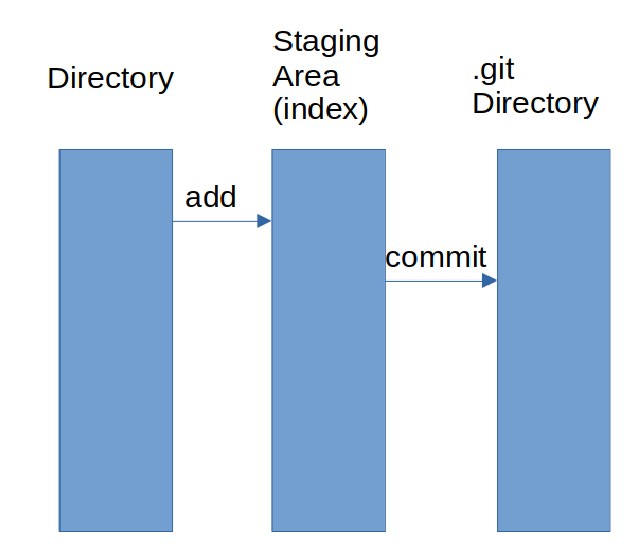
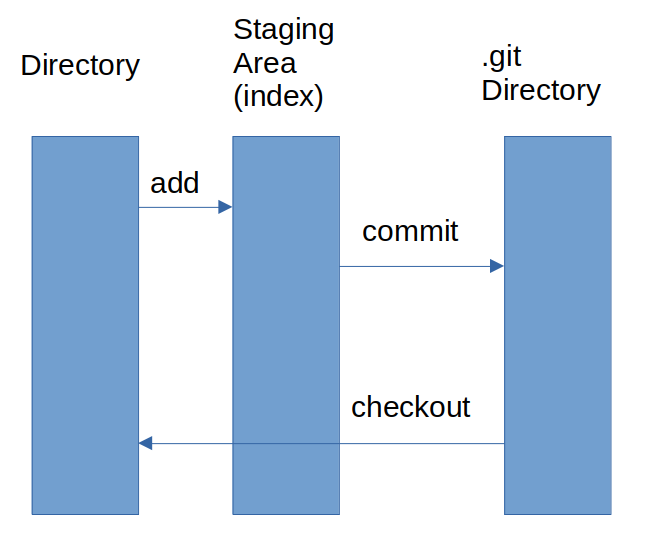
update

Changed region(s): [[0.0312, 0.0299, 0.9657, 0.9851], [0.0312, 0.0896, 0.2804, 0.1791], [0.7165, 0.0896, 0.9346, 0.209]]

diff --git a/README.md b/README.md
@@ -1,14 +1,23 @@
 # GIT
 
 ## Basics
+A version of a file can be in one of three places as show in the figure : working directory, staging area, or git directory
+![img1](three-stages.png)
+The figure shows the typical commands that are used to move a version of a file between the three stages.
+It should be noted that in the working directory and staging area there could be only one version of a given file. The Git directory, however, can contain multiple versions of the file.
 
+The working directory contains the files that you are working on. The staging area contains contains information on what **will be** in the next commit.
+A typical workflow would be:
+1. Modify files in the working directory
+2. "add" the modified files to the staging area
+3. "commit" the files in the staging area to the local git repository (directory)
+   
 ### Initialization
-Typically there are two ways to start version control on a directory. The first is initializing the directory
-to be under version control.
 
-There are three states: working directory, staging area (or index), and committed. The index contains information on what **will be** in the next commit.
+Typically there are two ways to start version control on a directory. The first is initializing the directory to be under version control.
 
-We start with an example. The file you are reading is currently in the working directory.
+We start with an example. Create a folder called git (on Windows). Open a terminal and cd to that folder.
+
 ```bash
 >git init
 >git status
@@ -16,7 +25,7 @@ On branch master
 No commits yet
 nothing to commit (create/copy files and use "git add" to track)
 ```
-Now create a new file, ```file.txt```
+Now create a new file, ```file1.txt```
 ```bash
 >echo "first version of file1" > file1.txt
 >git log
@@ -30,8 +39,7 @@ Untracked files:
 
 nothing added to commit but untracked files present (use "git add" to track)
 ```
-At this point file1 is newly added to the working directory, so it is untracked. To start tracking it we added
-it to the index using the **add** command.
+At this point file1.txt is newly added to the working directory, so it is untracked. To start tracking it, we add it to the index using the **add** command.
 
 ```bash
 >git add file1.txt
@@ -42,8 +50,7 @@ Changes to be committed:
   (use "git rm --cached <file>..." to unstage)
         new file:   file1.txt
 ```
-So now there are two (identical) copies of file1, in the **working** directory and in the **index**. If we make changes
-to file1.txt they will affect the one in the **working** directory only. Edit "file1.txt", by adding the line "second version of file1.txt".
+So now there are two (identical) copies of file1, in the **working** directory and in the **index**. If we make changes to file1.txt they will affect the one in the **working** directory only. Edit "file1.txt", by adding the line "second version of file1.txt".
 
 ```bash
 >echo "second version of file1.txt">>file1.txt
@@ -61,7 +68,7 @@ Changes not staged for commit:
 ```
 
 At this point the version in the **working** directory and the **index** are different. We can either add the second
-version to the **index** or commit the **index**, or restore the version in the index (that contains one line only) to the working directory.
+version to the **index**, commit the **index**, or restore the version in the index (that contains one line only) to the working directory.
 Let us try the last option.
 ```bash
 >cat file1.txt
@@ -94,8 +101,8 @@ Next we add the line "second version of text1" to file1.txt, add it to the index
 >git add file1.txt
 >echo "third version of file1.txt">> file1.txt
 ```
-So we have **three** versions of file1.txt: 
-- one in the working tree
+At this point we have **three** versions of file1.txt: 
+- one in the working directory
 - one in the index
 - one was committed. 
 
@@ -114,12 +121,14 @@ index 0005eef..73c2f46 100644
 +third version of file1.txt
 ```
 
-The above says that the version in the working tree has an extra line "third version of file1.txt".
-
+The above says that the version in the working tree has an extra line "third version of file1.txt" which doesn't exist in the index.
+In general, a line preceded with '-' means it is in ```a``` but not in ```b``` and '+' it is in ```b``` not in ```a```.
 We can also show the difference between working tree and the last commit.
 
 ```bash
->git diff HEAD #or git diff master
+>git diff HEAD #or git diff master or main 
+               # depending on the name of the branch
+
 diff --git a/file1.txt b/file1.txt
 index 7436323..73c2f46 100644
 --- a/file1.txt
@@ -150,7 +159,7 @@ shows the difference between the **index** and last commit.
 ### Branching
 
 
-Typically, to work on a new feature in a software base we create a new branch from the main one. This way all the changes we make do not affect the supposedly "working code". But after we are done developing the new feature we would like to incorporate back the new changes into the main part. Before we proceed we perform two commits to get three different 
+Typically, to work on a new feature in a software base we create a new branch from the main one. This way all the changes we make do not affect the supposedly "working code". But after we are done developing the new feature we would like to incorporate  the new changes back into the main part. Before we proceed we perform two commits to get three different 
 versions of file1.txt in the database.
 ```bash
 >git commit -m "added second version of file1"
@@ -163,7 +172,7 @@ versions of file1.txt in the database.
 da21bb7 added first version of file1
 6b66b6a initial commit
 ```
-First simple example. 
+Simple branching example. 
 ```bash
 >git checkout -b dev # or git branch dev ; git checkout dev
 >git log --oneline
@@ -196,7 +205,7 @@ Now switch back to branch master and add file3.txt and then a second version of 
 ![fig1](fig1.png)
 
 As you can see from the figure above we now have two divergent, but separate, branches.
-## Creating remote branches
+## Remote branches
 First create a local branch then push it to the remote. Example
 
 ```
